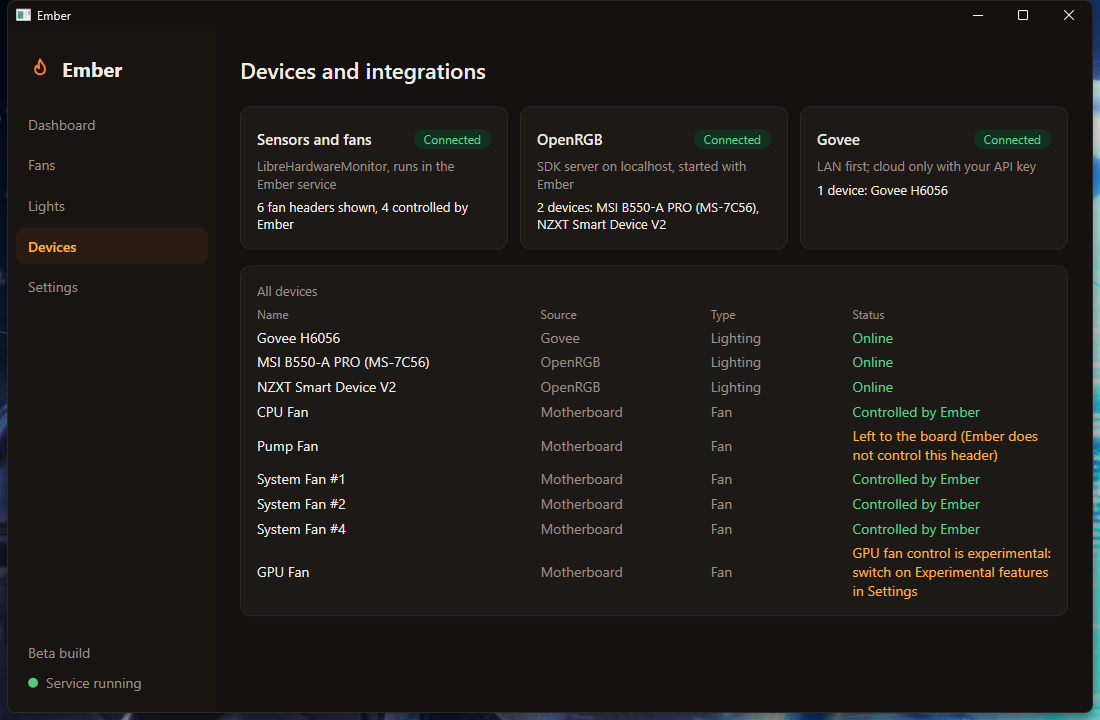
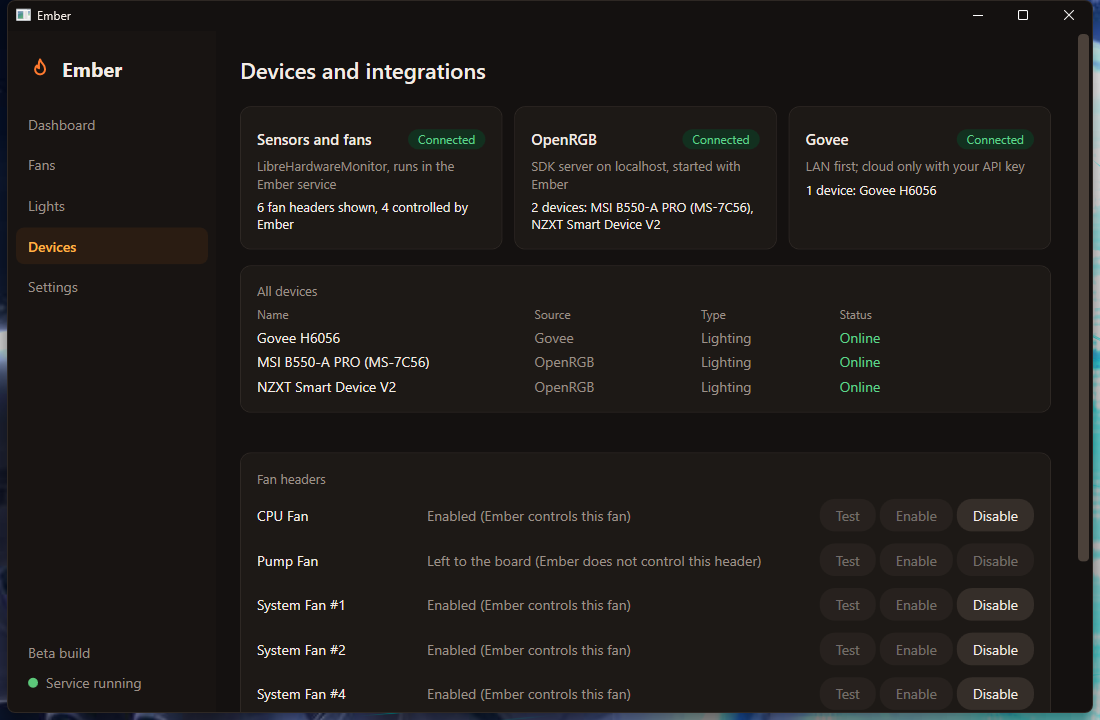
Move the fan headers (test, enable, disable) from the Fans page to the Devices page

diff --git a/src/Ember.App/MainWindow.xaml b/src/Ember.App/MainWindow.xaml
@@ -231,7 +231,22 @@
                     </StackPanel>
                 </GroupBox>
 
-                <GroupBox Header="Fan headers" Style="{StaticResource Panel}" AutomationProperties.Name="Fan headers">
+                
+            </StackPanel>
+        </ScrollViewer>
+
+        <!-- Lights -->
+        <ScrollViewer x:Name="LightsPageView" Grid.Column="1" VerticalScrollBarVisibility="Auto" Focusable="False"
+                      Visibility="Collapsed">
+            <local:LightsPage x:Name="Lights" />
+        </ScrollViewer>
+
+        <!-- Devices -->
+        <ScrollViewer x:Name="DevicesPageView" Grid.Column="1" VerticalScrollBarVisibility="Auto" Focusable="False"
+                      Visibility="Collapsed">
+            <StackPanel>
+            <local:DevicesPage x:Name="Devices" />
+            <GroupBox Header="Fan headers" Style="{StaticResource Panel}" Margin="24,-8,24,24" AutomationProperties.Name="Fan headers">
                     <StackPanel>
                         <CheckBox Content="Allow Ember to control the GPU fan (optional, test it first)" IsChecked="{Binding FansPage.GpuControl, Mode=OneWay}"
                                   Click="OnGpuControl" Style="{StaticResource SwitchBox}" Margin="0,0,0,8"
@@ -276,18 +291,6 @@
                     </StackPanel>
                 </GroupBox>
             </StackPanel>
-        </ScrollViewer>
-
-        <!-- Lights -->
-        <ScrollViewer x:Name="LightsPageView" Grid.Column="1" VerticalScrollBarVisibility="Auto" Focusable="False"
-                      Visibility="Collapsed">
-            <local:LightsPage x:Name="Lights" />
-        </ScrollViewer>
-
-        <!-- Devices -->
-        <ScrollViewer x:Name="DevicesPageView" Grid.Column="1" VerticalScrollBarVisibility="Auto" Focusable="False"
-                      Visibility="Collapsed">
-            <local:DevicesPage x:Name="Devices" />
         </ScrollViewer>
 
         <!-- Settings -->

diff --git a/src/Ember.App/DevicesPage.cs b/src/Ember.App/DevicesPage.cs
@@ -28,7 +28,7 @@ public sealed class DevicesPage : UserControl
         AutomationProperties.SetHeadingLevel(title, AutomationHeadingLevel.Level2);
         _root.Children.Add(title);
         _root.Children.Add(_cards);
-        _root.Children.Add(Panel("All devices", _rows));
+        _root.Children.Add(Panel("All devices", _rows, new Thickness(0)));
     }
 
     public void Update(MainViewModel vm, LightingManager lights)
@@ -57,8 +57,6 @@ public sealed class DevicesPage : UserControl
             var problem = lights.Problems.TryGetValue(d.Id, out var p) ? p : null;
             _rows.Children.Add(Row(d.Name, d.Source, "Lighting", problem ?? (d.Realtime ? "Online" : "Online, slow (cloud)"), warn: problem is not null || !d.Realtime));
         }
-        foreach (var h in headers)
-            _rows.Children.Add(Row(h.Name, "Motherboard", "Fan", h.CanDisable ? "Controlled by Ember" : h.StateText, warn: !h.CanDisable));
         if (_rows.Children.Count == 1) _rows.Children.Add(Text("Nothing found yet", muted: true));
     }
 
